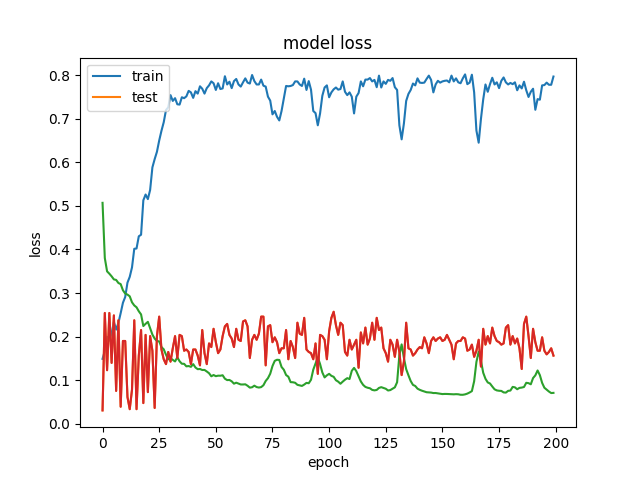
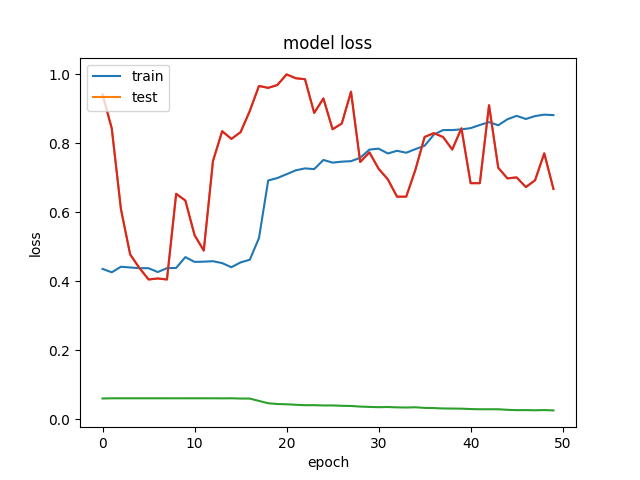
nah

diff --git a/one_gpu_nih.py b/one_gpu_nih.py
@@ -117,11 +117,11 @@ model.add(Dropout(0.3))
 model.add(Dense(256))
 model.add(Dropout(0.3))
 model.add(Dense(len(all_labels), activation='softmax'))
-model.compile(loss='categorical_crossentropy', optimizer='adam', metrics=['top_k_categorical_accuracy'])
+model.compile(loss='mean_squared_logarithmic_error', optimizer='adamax', metrics=['top_k_categorical_accuracy'])
 model.summary()
 
 
-history = model.fit(X_train, y_train, epochs = 100, batch_size=64, verbose=1, validation_split=0.2 , shuffle=True)
+history = model.fit(X_train, y_train, epochs = 50, batch_size=64, verbose=1, validation_split=0.2 , shuffle=True)
 
 model.save('../nih_sample/nih_model_50_01.h5')
 def history_plot(history):
